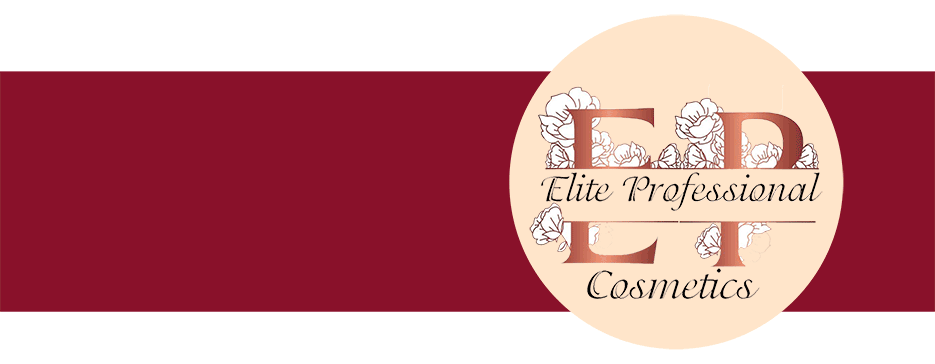
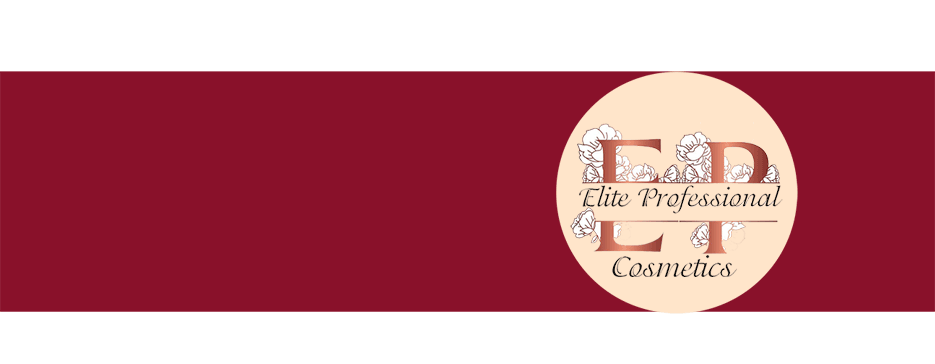
Adding mock up to readme

Changed region(s): [[0.5273, 0.0302, 0.9305, 0.967]]

diff --git a/styles.css b/styles.css
@@ -312,7 +312,7 @@ footer {
   }
 
 /* Large devices (laptops and desktops, 992px and up) */
-@media screen and (min-width: 992px) {
+@media screen and (min-width: 1440px) {
     header {
         background-image: url("images/web_banner.jpg");
         background-position: center;
